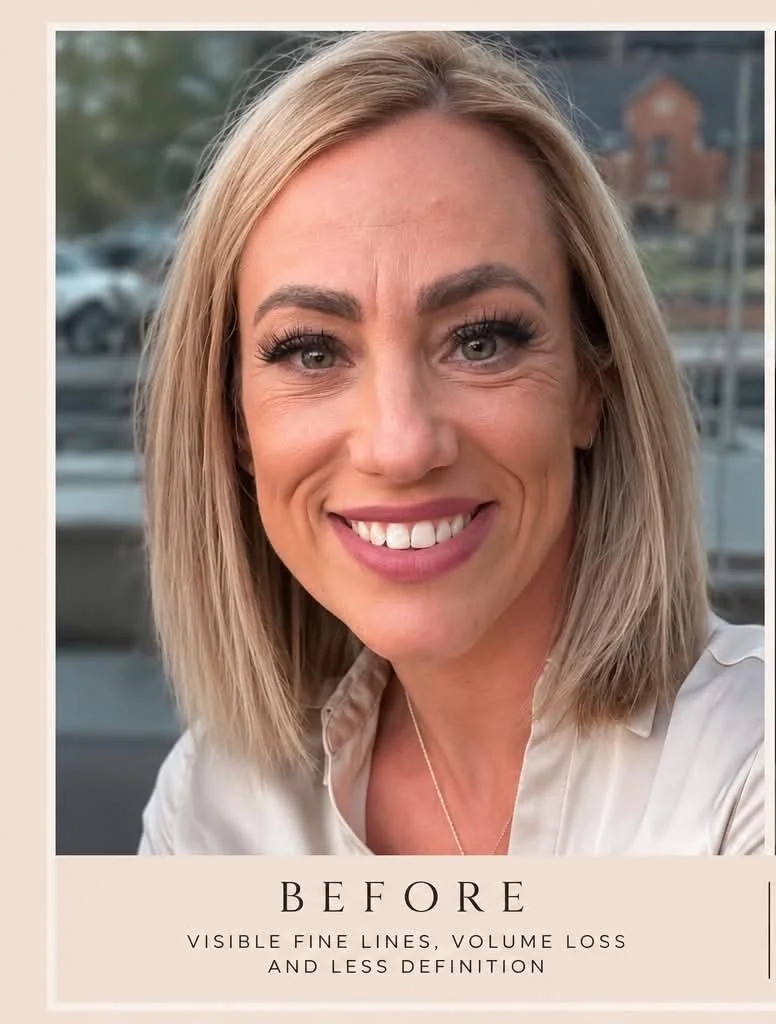
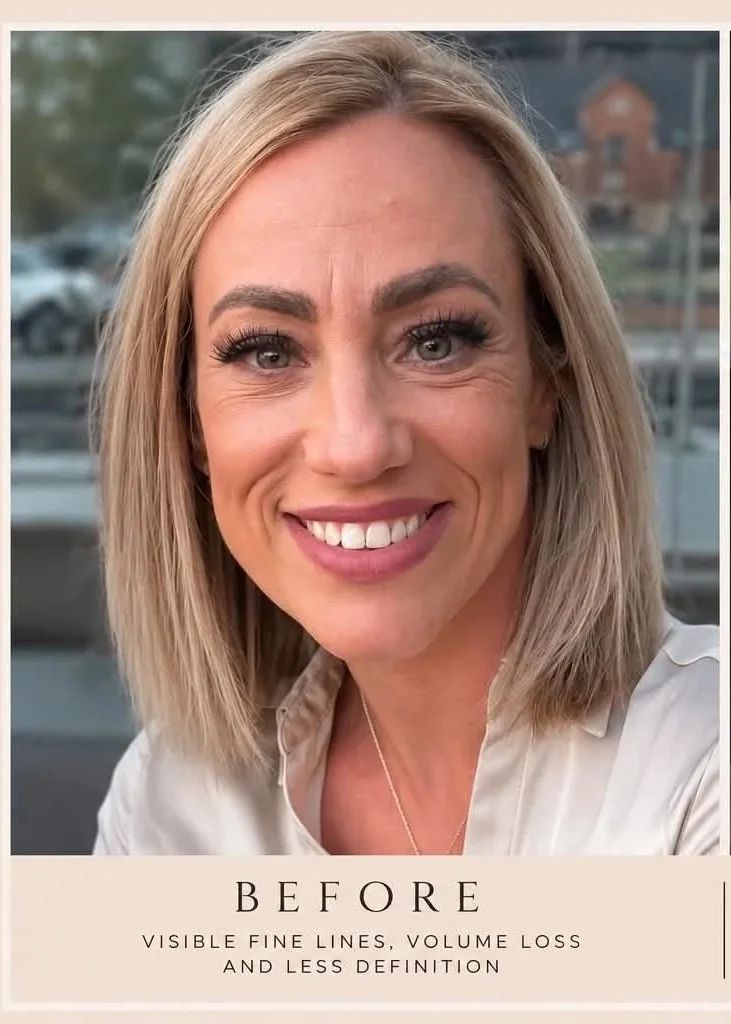
New CLC Cosmetics site v2

diff --git a/index.html b/index.html
@@ -204,7 +204,7 @@ At CLC Aesthetics, you’re not just booking a treatment. You’re receiving a p
               <h3 class="font-display text-3xl">A few familiar faces</h3>
               <p class="text-mauve mt-2">Some of the well-known clients who've trusted CLC.</p>
               <div class="faces grid grid-cols-5 gap-2 mt-6">
-                <img src="/images/celeb-1.jpg" alt="Celebrity client at CLC Cosmetics" loading="lazy" />
+                <img src="/images/celeb-1.webp" alt="Celebrity client at CLC Cosmetics" loading="lazy" />
                 <img src="/images/celeb-2.webp" alt="Celebrity client at CLC Cosmetics" loading="lazy" />
                 <img src="/images/celeb-3.webp" alt="Celebrity client at CLC Cosmetics" loading="lazy" />
                 <img src="/images/celeb-4.webp" alt="Celebrity client at CLC Cosmetics" loading="lazy" />
